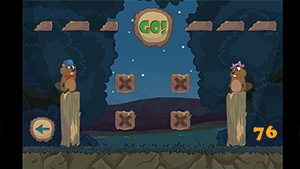
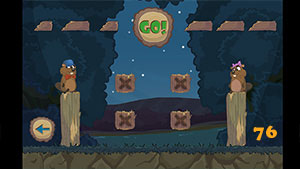
image optimization

diff --git a/src/m/pages/index/parts/portfolio.js b/src/m/pages/index/parts/portfolio.js
@@ -1,4 +1,5 @@
 import React, { Component } from 'react';
+import LazyLoad from 'react-lazyload';
 
 import InlineSkill from './inline-skill';
 
@@ -34,7 +35,8 @@ export default class extends Component {
             <div>
               <b className="info-block__header">Nora <InlineSkill>Single page application</InlineSkill> <InlineSkill>Senior frontend developer</InlineSkill></b><br />
               <p>
-                As a consultant at Nordea i helped build the first version of the Nora investment advice tool in Angular 4+.<br />
+                As a consultant at Nordea i helped build the first version of the Nora investment advice tool.<br />
+                Initially build in React which i maintained, but later we migrated it to Angular which was Nordeas prefered framework.
                 As the senior frontend developer on the project i planned and helped implenting the frontend SPA architecture.
               </p>
 
@@ -46,9 +48,11 @@ export default class extends Component {
                 <li className="v-skill"><span>Frontend Architecture</span></li>
               </ul>
 
-              <div className="media-block">
-                <img className="info-screenshot" src={require('./assets/cases/nora/1.jpg')} alt="screenshot" />
-              </div>
+              <LazyLoad height={400}>
+                <div className="media-block">
+                  <img className="info-screenshot" src={require('./assets/cases/nora/1.jpg')} alt="screenshot" />
+                </div>
+              </LazyLoad>
             </div>
           </div>  
 
@@ -83,15 +87,17 @@ export default class extends Component {
                 <li className="v-skill"><span>Actionscript</span></li>
               </ul>
 
-              <div className="media-block">
-                <iframe
-                  className="video-preview"
-                  src="https://www.youtube.com/embed/bDZd9An-jAk"
-                  frameBorder="0"
-                  allow="accelerometer; autoplay; encrypted-media; gyroscope; picture-in-picture"
-                  allowFullScreen>
-                </iframe>
-              </div>
+              <LazyLoad height={400}>
+                <div className="media-block">
+                  <iframe
+                    className="video-preview"
+                    src="https://www.youtube.com/embed/bDZd9An-jAk"
+                    frameBorder="0"
+                    allow="accelerometer; autoplay; encrypted-media; gyroscope; picture-in-picture"
+                    allowFullScreen>
+                  </iframe>
+                </div>
+              </LazyLoad>
             </div>
           </div> 
 
@@ -108,11 +114,13 @@ export default class extends Component {
                 <li className="v-skill"><span>C#</span></li>
               </ul>
 
-              <div className="media-block">
-                <img className="info-screenshot" src={require('./assets/cases/beaver/1.png')} alt="screenshot" />
-                <img className="info-screenshot" src={require('./assets/cases/beaver/2.png')} alt="screenshot" />
-                <img className="info-screenshot" src={require('./assets/cases/beaver/3.jpg')} alt="screenshot" />
-              </div>
+              <LazyLoad height={400}>
+                <div className="media-block">
+                  <img className="info-screenshot" src={require('./assets/cases/beaver/1.jpg')} alt="screenshot" />
+                  <img className="info-screenshot" src={require('./assets/cases/beaver/2.jpg')} alt="screenshot" />
+                  <img className="info-screenshot" src={require('./assets/cases/beaver/3.jpg')} alt="screenshot" />
+                </div>
+              </LazyLoad>
             </div>
           </div> 
 
@@ -137,11 +145,13 @@ export default class extends Component {
               </ul>
             </div>
 
-            <div className="media-block">
-              <img className="info-screenshot" src={require('./assets/cases/harba/1.png')} alt="screenshot" />
-              <img className="info-screenshot" src={require('./assets/cases/harba/2.png')} alt="screenshot" />
-              <img className="info-screenshot" src={require('./assets/cases/harba/3.png')} alt="screenshot" />
-            </div>
+            <LazyLoad height={400}>
+              <div className="media-block">
+                <img className="info-screenshot" src={require('./assets/cases/harba/1.jpg')} alt="screenshot" />
+                <img className="info-screenshot" src={require('./assets/cases/harba/2.jpg')} alt="screenshot" />
+                <img className="info-screenshot" src={require('./assets/cases/harba/3.jpg')} alt="screenshot" />
+              </div>
+            </LazyLoad>
           </div>  
 
           <div className="info-block">
@@ -165,11 +175,13 @@ export default class extends Component {
               </ul>
             </div>
 
-            <div className="media-block">
-              <img className="info-screenshot" src={require('./assets/cases/storebrand/1.png')} alt="screenshot" />
-              <img className="info-screenshot" src={require('./assets/cases/storebrand/2.png')} alt="screenshot" />
-              <img className="info-screenshot" src={require('./assets/cases/storebrand/3.png')} alt="screenshot" />
-            </div>
+            <LazyLoad height={400}>
+              <div className="media-block">
+                <img className="info-screenshot" src={require('./assets/cases/storebrand/1.jpg')} alt="screenshot" />
+                <img className="info-screenshot" src={require('./assets/cases/storebrand/2.jpg')} alt="screenshot" />
+                <img className="info-screenshot" src={require('./assets/cases/storebrand/3.jpg')} alt="screenshot" />
+              </div>
+            </LazyLoad>
           </div>  
 
           <div className="info-block">
@@ -193,11 +205,13 @@ export default class extends Component {
               </ul>
             </div>
 
-            <div className="media-block">
-              <img className="info-screenshot" src={require('./assets/cases/lahitapiola/1.png')} alt="screenshot" />
-              <img className="info-screenshot" src={require('./assets/cases/lahitapiola/2.png')} alt="screenshot" />
-              <img className="info-screenshot" src={require('./assets/cases/lahitapiola/3.png')} alt="screenshot" />
-            </div>
+            <LazyLoad height={400}>
+              <div className="media-block">
+                <img className="info-screenshot" src={require('./assets/cases/lahitapiola/1.jpg')} alt="screenshot" />
+                <img className="info-screenshot" src={require('./assets/cases/lahitapiola/2.jpg')} alt="screenshot" />
+                <img className="info-screenshot" src={require('./assets/cases/lahitapiola/3.jpg')} alt="screenshot" />
+              </div>
+            </LazyLoad>
           </div>  
 
           <div className="info-block">
@@ -221,13 +235,15 @@ export default class extends Component {
             </div>
 
             
-            <div className="media-block">
-              <img className="info-screenshot" src={require('./assets/cases/redcard/1.png')} alt="screenshot" />
-              <img className="info-screenshot" src={require('./assets/cases/redcard/2.png')} alt="screenshot" />
-              <img className="info-screenshot" src={require('./assets/cases/redcard/3.png')} alt="screenshot" />
-              <img className="info-screenshot" src={require('./assets/cases/redcard/4.png')} alt="screenshot" />
-              <img className="info-screenshot" src={require('./assets/cases/redcard/5.png')} alt="screenshot" />
-            </div>
+            <LazyLoad height={400}>
+              <div className="media-block">
+                <img className="info-screenshot" src={require('./assets/cases/redcard/1.jpg')} alt="screenshot" />
+                <img className="info-screenshot" src={require('./assets/cases/redcard/2.jpg')} alt="screenshot" />
+                <img className="info-screenshot" src={require('./assets/cases/redcard/3.jpg')} alt="screenshot" />
+                <img className="info-screenshot" src={require('./assets/cases/redcard/4.jpg')} alt="screenshot" />
+                <img className="info-screenshot" src={require('./assets/cases/redcard/5.jpg')} alt="screenshot" />
+              </div>
+            </LazyLoad>
           </div>  
 
           <div className="info-block">
@@ -268,10 +284,11 @@ export default class extends Component {
               </ul>
             </div>
 
-            
-            <div className="media-block">
-              <img className="info-screenshot" src={require('./assets/cases/sondagsavisen/1.png')} alt="screenshot" />
-            </div>
+            <LazyLoad height={400}>
+              <div className="media-block">
+                <img className="info-screenshot" src={require('./assets/cases/sondagsavisen/1.jpg')} alt="screenshot" />
+              </div>
+            </LazyLoad>
           </div>  
 
           <div className="info-block">
@@ -294,12 +311,13 @@ export default class extends Component {
               </ul>
             </div>
 
-            
-            <div className="media-block">
-              <img className="info-screenshot" src={require('./assets/cases/rynkeby/1.png')} alt="screenshot" />
-              <img className="info-screenshot" src={require('./assets/cases/rynkeby/2.png')} alt="screenshot" />
-              <img className="info-screenshot" src={require('./assets/cases/rynkeby/3.png')} alt="screenshot" />
-            </div>
+            <LazyLoad height={400}>
+              <div className="media-block">
+                <img className="info-screenshot" src={require('./assets/cases/rynkeby/1.jpg')} alt="screenshot" />
+                <img className="info-screenshot" src={require('./assets/cases/rynkeby/2.jpg')} alt="screenshot" />
+                <img className="info-screenshot" src={require('./assets/cases/rynkeby/3.jpg')} alt="screenshot" />
+              </div>
+            </LazyLoad>
           </div> 
 
           <div className="info-block">
@@ -320,12 +338,13 @@ export default class extends Component {
               </ul>
             </div>
 
-            
-            <div className="media-block">
-              <img className="info-screenshot" src={require('./assets/cases/partytype/1.png')} alt="screenshot" />
-              <img className="info-screenshot" src={require('./assets/cases/partytype/2.png')} alt="screenshot" />
-              <img className="info-screenshot" src={require('./assets/cases/partytype/3.png')} alt="screenshot" />
-            </div>
+            <LazyLoad height={400}>
+              <div className="media-block">
+                <img className="info-screenshot" src={require('./assets/cases/partytype/1.jpg')} alt="screenshot" />
+                <img className="info-screenshot" src={require('./assets/cases/partytype/2.jpg')} alt="screenshot" />
+                <img className="info-screenshot" src={require('./assets/cases/partytype/3.jpg')} alt="screenshot" />
+              </div>
+            </LazyLoad>
           </div> 
 
           <div className="info-block">
@@ -346,10 +365,11 @@ export default class extends Component {
               </ul>
             </div>
 
-            
-            <div className="media-block">
-              <img className="info-screenshot" src={require('./assets/cases/meethue/1.png')} alt="screenshot" />
-            </div>
+            <LazyLoad height={400}>
+              <div className="media-block">
+                <img className="info-screenshot" src={require('./assets/cases/meethue/1.jpg')} alt="screenshot" />
+              </div>
+            </LazyLoad>
           </div> 
 
           <div className="info-block">
@@ -373,11 +393,12 @@ export default class extends Component {
               </ul>
             </div>
 
-            
-            <div className="media-block">
-              <img className="info-screenshot" src={require('./assets/cases/huaweixmas/1.png')} alt="screenshot" />
-              <img className="info-screenshot" src={require('./assets/cases/huaweixmas/2.png')} alt="screenshot" />
-            </div>
+            <LazyLoad height={400}>
+              <div className="media-block">
+                <img className="info-screenshot" src={require('./assets/cases/huaweixmas/1.jpg')} alt="screenshot" />
+                <img className="info-screenshot" src={require('./assets/cases/huaweixmas/2.jpg')} alt="screenshot" />
+              </div>
+            </LazyLoad>
           </div> 
 
           <div className="info-block">
@@ -398,12 +419,13 @@ export default class extends Component {
               </ul>
             </div>
 
-            
-            <div className="media-block">
-              <img className="info-screenshot" src={require('./assets/cases/fitnessconsulting/1.png')} alt="screenshot" />
-              <img className="info-screenshot" src={require('./assets/cases/fitnessconsulting/2.png')} alt="screenshot" />
-              <img className="info-screenshot" src={require('./assets/cases/fitnessconsulting/3.png')} alt="screenshot" />
-            </div>
+            <LazyLoad height={400}>
+              <div className="media-block">
+                <img className="info-screenshot" src={require('./assets/cases/fitnessconsulting/1.jpg')} alt="screenshot" />
+                <img className="info-screenshot" src={require('./assets/cases/fitnessconsulting/2.jpg')} alt="screenshot" />
+                <img className="info-screenshot" src={require('./assets/cases/fitnessconsulting/3.jpg')} alt="screenshot" />
+              </div>
+            </LazyLoad>
           </div> 
 
         </div>

diff --git a/src/index.ssr.js b/src/index.ssr.js
@@ -2,7 +2,7 @@
 * @Author: Kasper Sebb' brandt
 * @Date:   2018-10-24 20:31:59
 * @Last Modified by:   Kasper Sebb' brandt
-* @Last Modified time: 2018-10-28 13:17:44
+* @Last Modified time: 2018-11-26 19:54:15
 *
 * Server side render entry
 */
@@ -15,7 +15,7 @@ import AppTemplate from './app.template.js';
 
 if (typeof global.document !== 'undefined') {
   const path = window.location.pathname+window.location.search;
-  ReactDOM.hydrate(<MyRouter path={path} isBrowser={true}/>, document.getElementById('root'))
+  ReactDOM.hydrate(<App path={path} isBrowser={true}/>, document.getElementById('root'))
 }
 
 export default (locals, callback) => {

diff --git a/src/m/pages/index/parts/intro.js b/src/m/pages/index/parts/intro.js
@@ -15,7 +15,7 @@ Having been a freelancer for a few years i have also gotten a good understanding
 time, maintainebillity, and performance budgets to get the best posible product with availeble resources.
 
 ### What excites me
-Topics that excite me include things like serverside SPA rendering, GraphQL, state-management, game-development, 14kb performance-budgets, web-assembly, and so on.
+Topics that excite me include things like SSR SPA's, GraphQL, state-management, react/preact, game-development, 14kb performance-budgets, web-assembly, and so on.
 `;
 
 export default class extends Component {

diff --git a/src/app.js b/src/app.js
@@ -49,8 +49,8 @@ export default function App(props) {
     </div>
     <div id="footer" className="print-hide">
       <p>
-        This page was build as a prerendered single page application. <br />
-        Check out the source-code here on <a className="ilink" rel="noreferrer" href="https://github.com/sebbdk/Curriculum-Vitae" target="_blank">Github</a>.</p>
+        The page was build in React and is hosted on <a className="ilink" rel="noreferrer" href="https://github.com/sebbdk/Curriculum-Vitae" target="_blank">Github</a>. <br />
+      </p>
     </div>
     </div>
   );

diff --git a/src/m/pages/index/parts/contact.js b/src/m/pages/index/parts/contact.js
@@ -1,4 +1,5 @@
 import React, { Component } from 'react';
+import LazyLoad from 'react-lazyload';
 
 import ProfileImg from './assets/profile_img.png';
 
@@ -10,7 +11,9 @@ export default class extends Component {
         <h1>Sebastian Vargr</h1>
         <small>(Formerly Kasper jensen)</small>
         <p>Developing' Developer</p>
-        <img src={ProfileImg} alt="picture of me" />
+        <LazyLoad height={300}>
+          <img src={ProfileImg} alt="picture of me" />
+        </LazyLoad>
       </div>
       <div className="contact-section">
         <h2>Contact</h2>

diff --git a/src/app.css b/src/app.css
@@ -1,5 +1,5 @@
 body, html {
-  background-color: #222;
+  background-color: #23212b;
   padding: 0;
   margin: 0;
   font-family: 'Open Sans', sans-serif;

diff --git a/README.md b/README.md
@@ -11,7 +11,7 @@ The commit the changes to the branch up the remote and wait a few minutes for th
 
 **Tecknical Todo**
 * Cleanup styles and naming
-* Implement simple Jest React tests
+* Implement simple Jest React testing
 
 **Content todo**
 * Add back the portfolio
@@ -22,7 +22,7 @@ The commit the changes to the branch up the remote and wait a few minutes for th
 **Performance todo**
 * Setup dependency analyses 
 * Optimise script size, currently script size is about 74.2kb
-* preact?
+* preact.
 * Avoid umd in served production js?
 * Ensure images have dimensions and color placeholders
 * Webservers should not care about gzip... use compression-webpack-plugin?
